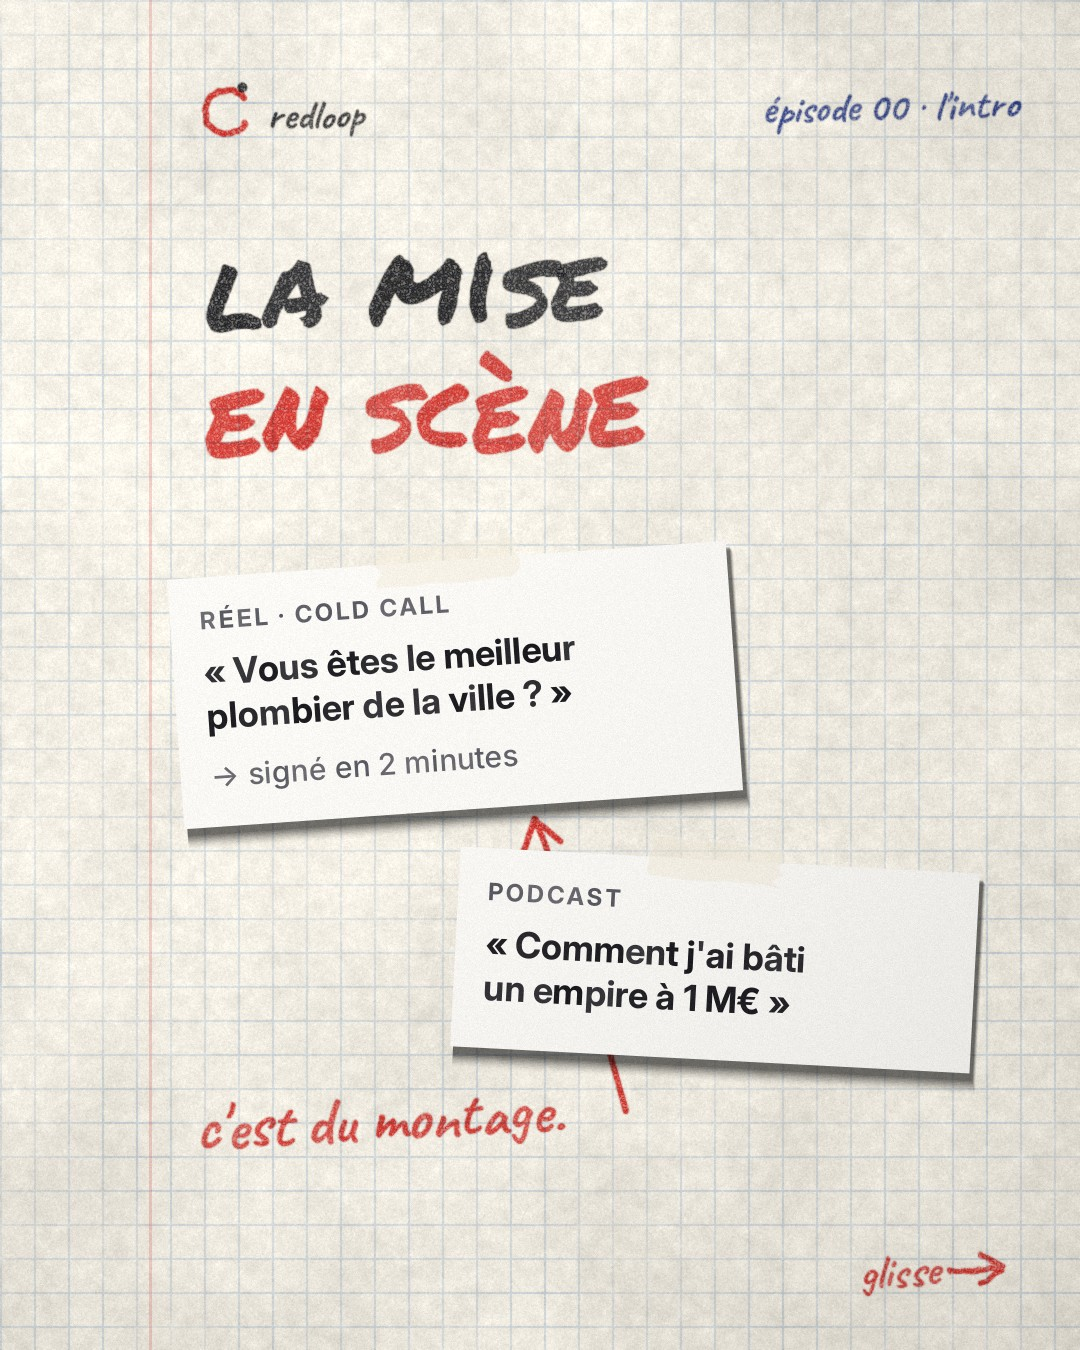
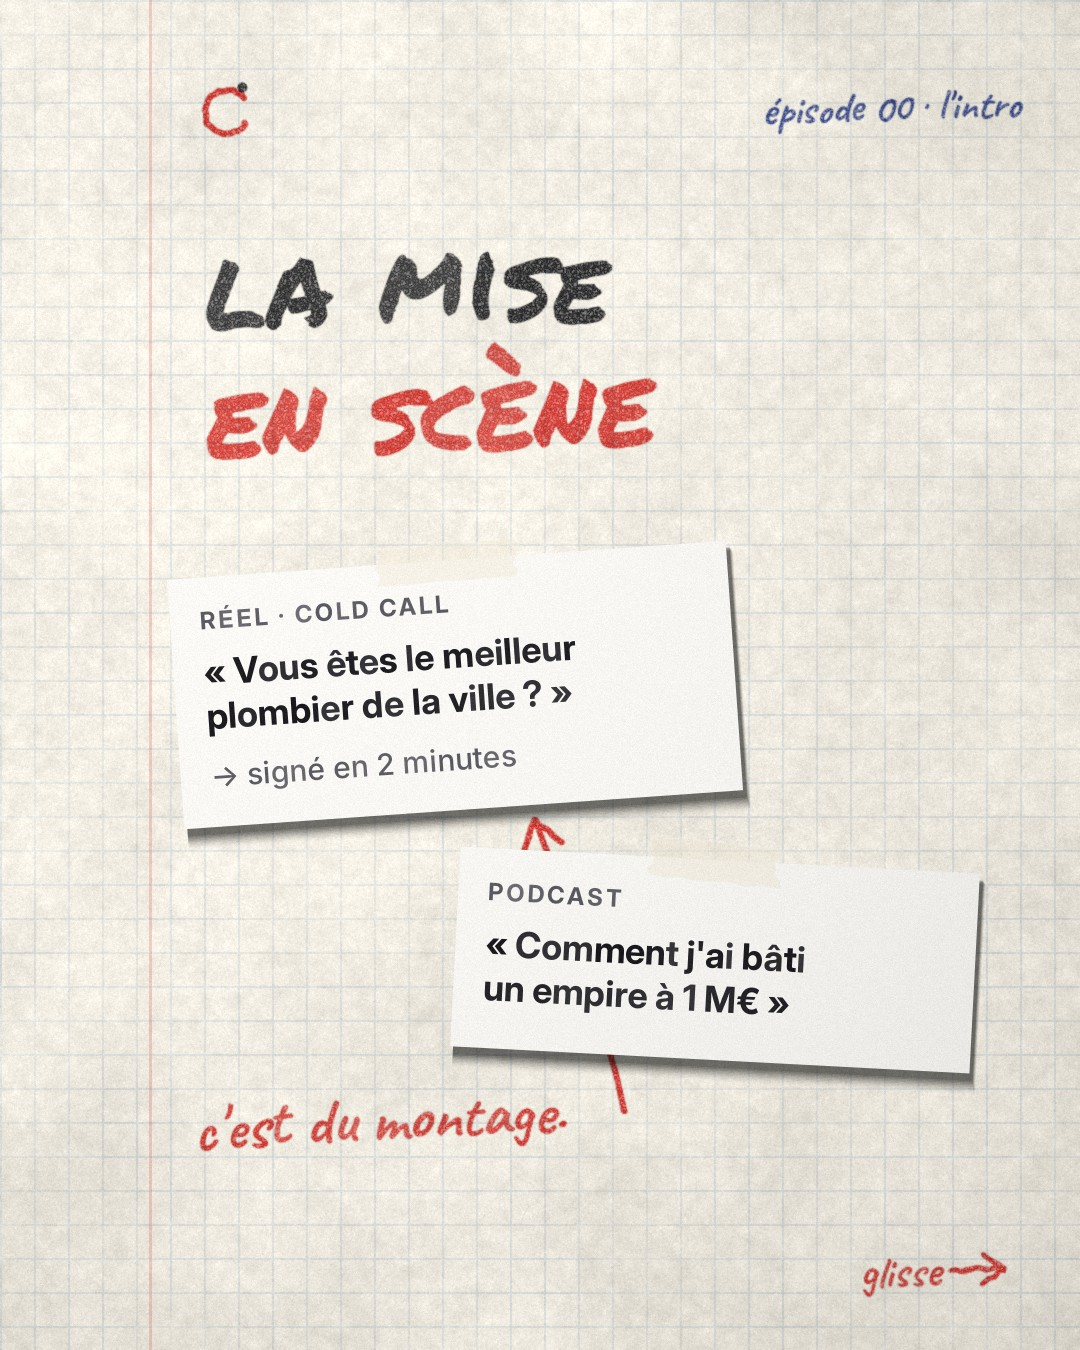
Manifesto: no brand name, handle on first/last slide, softer grid, stricter red
Claude-Session: https://claude.ai/code/session_01MjHNHLtyk6pBPoVN5YbS1c

diff --git a/motion/notebook_manifeste.py b/motion/notebook_manifeste.py
@@ -7,9 +7,9 @@ def save(p, i): p.render(f"{OUT}/manifeste_{i}.png", f"{J}/manifeste_{i}.jpg")
 # 1
 p = Page(31); header(p, LBL)
 y, ws, sz = title(p, [("je vais faire", BLACK), ("le point sur", BLACK), ("le business", BLACK), ("en ligne.", BLACK)], 400, 112)
-w = p.write(L, y + 190, "Sérieusement.", 104, RED, ang=-2.5); under(p, y + 225, w, twice=True)
+w = p.write(L, y + 190, "Sérieusement.", 104, RED, ang=-2.5)
 note(p, ["sans bullshit, promis."], y + 360, 58)
-glisse(p); save(p, 1)
+handle(p); glisse(p); save(p, 1)
 
 # 2
 p = Page(32); header(p, LBL)
@@ -69,8 +69,8 @@ glisse(p); save(p, 6)
 
 # 7
 p = Page(37); header(p, LBL)
-y, ws, sz = title(p, [("abonne-toi", RED), ("si tu veux", BLACK), ("y voir clair.", BLACK)], 400, 112)
+y, ws, sz = title(p, [("abonne-toi", BLACK), ("si tu veux", BLACK), ("y voir clair.", BLACK)], 400, 112)
 under(p, 400 + 30, ws[0])
 note(p, ["et dis-moi en commentaire", "quelle promesse t'a déjà", "fait rêver."], y + 180, 58)
 p.postit(600, 1030, 380, 230, 4, ["prochain épisode :", "l'état du marché"], 50)
-save(p, 7)
+handle(p); save(p, 7)

diff --git a/motion/notebook.py b/motion/notebook.py
@@ -9,6 +9,7 @@ def noise(shape, sigma, seed):
     n = gaussian_filter(r, sigma); return n / (n.std() + 1e-9)
 
 class Page:
+    grid = 0.68
     def __init__(self, seed=1, full=True):
         self.seed = seed; self.rnd = random.Random(seed); self.full = full
         # page geometry: full bleed by default, else a notebook on a desk
@@ -135,7 +136,7 @@ class Page:
         g = np.zeros((H, W), np.float32); step = 34
         gx = ((X - self.px0) % step) < 1.4; gy = ((Y - self.py0) % step) < 1.4
         g[gx | gy] = 1.0; g = gaussian_filter(g, 0.5) * (0.85 + 0.15 * noise((H, W), 30, s + 5))
-        paper -= g[..., None] * np.array([0.10, 0.07, 0.03]) * 1.4
+        paper -= g[..., None] * np.array([0.10, 0.07, 0.03]) * 1.4 * getattr(self, 'grid', 1.0)
         margin = np.abs(X - (self.px0 + 150)) < 1.5
         paper[margin] = paper[margin] * 0.75 + np.array([0.85, 0.35, 0.35]) * 0.25
         # ink layer absorbed into paper

diff --git a/motion/notebook_kit.py b/motion/notebook_kit.py
@@ -6,8 +6,10 @@ GOLD = (0.88, 0.76, 0.45); CREAM = (0.97, 0.95, 0.90); GREY = (0.35, 0.35, 0.38)
 def header(p, label):
     pts = [(L + 22 + 22*math.cos(math.radians(a)), 112 + 22*math.sin(math.radians(a))) for a in range(-40, -340, -12)]
     p.stroke(pts, RED, 6); p.c.set_source_rgba(*BLACK, .9); p.c.arc(L + 22 + 29*math.cos(math.radians(-58)), 112 + 29*math.sin(math.radians(-58)), 5, 0, 6.3); p.c.fill()
-    p.write(L + 62, 128, "redloop", 40, BLACK, "Caveat", True, .6)
     w = p.width(label, 42, "Caveat", True); p.write(1080 - 60 - w, 124, label, 42, BLUE, "Caveat", True, .8, -1.5)
+
+def handle(p, txt="@redloopx"):
+    p.write(L, 1288, txt, 46, BLUE, "Caveat", True, .9, -2)
 
 def glisse(p):
     w2 = p.write(860, 1288, "glisse", 46, RED, "Caveat", True, .8, -2)
